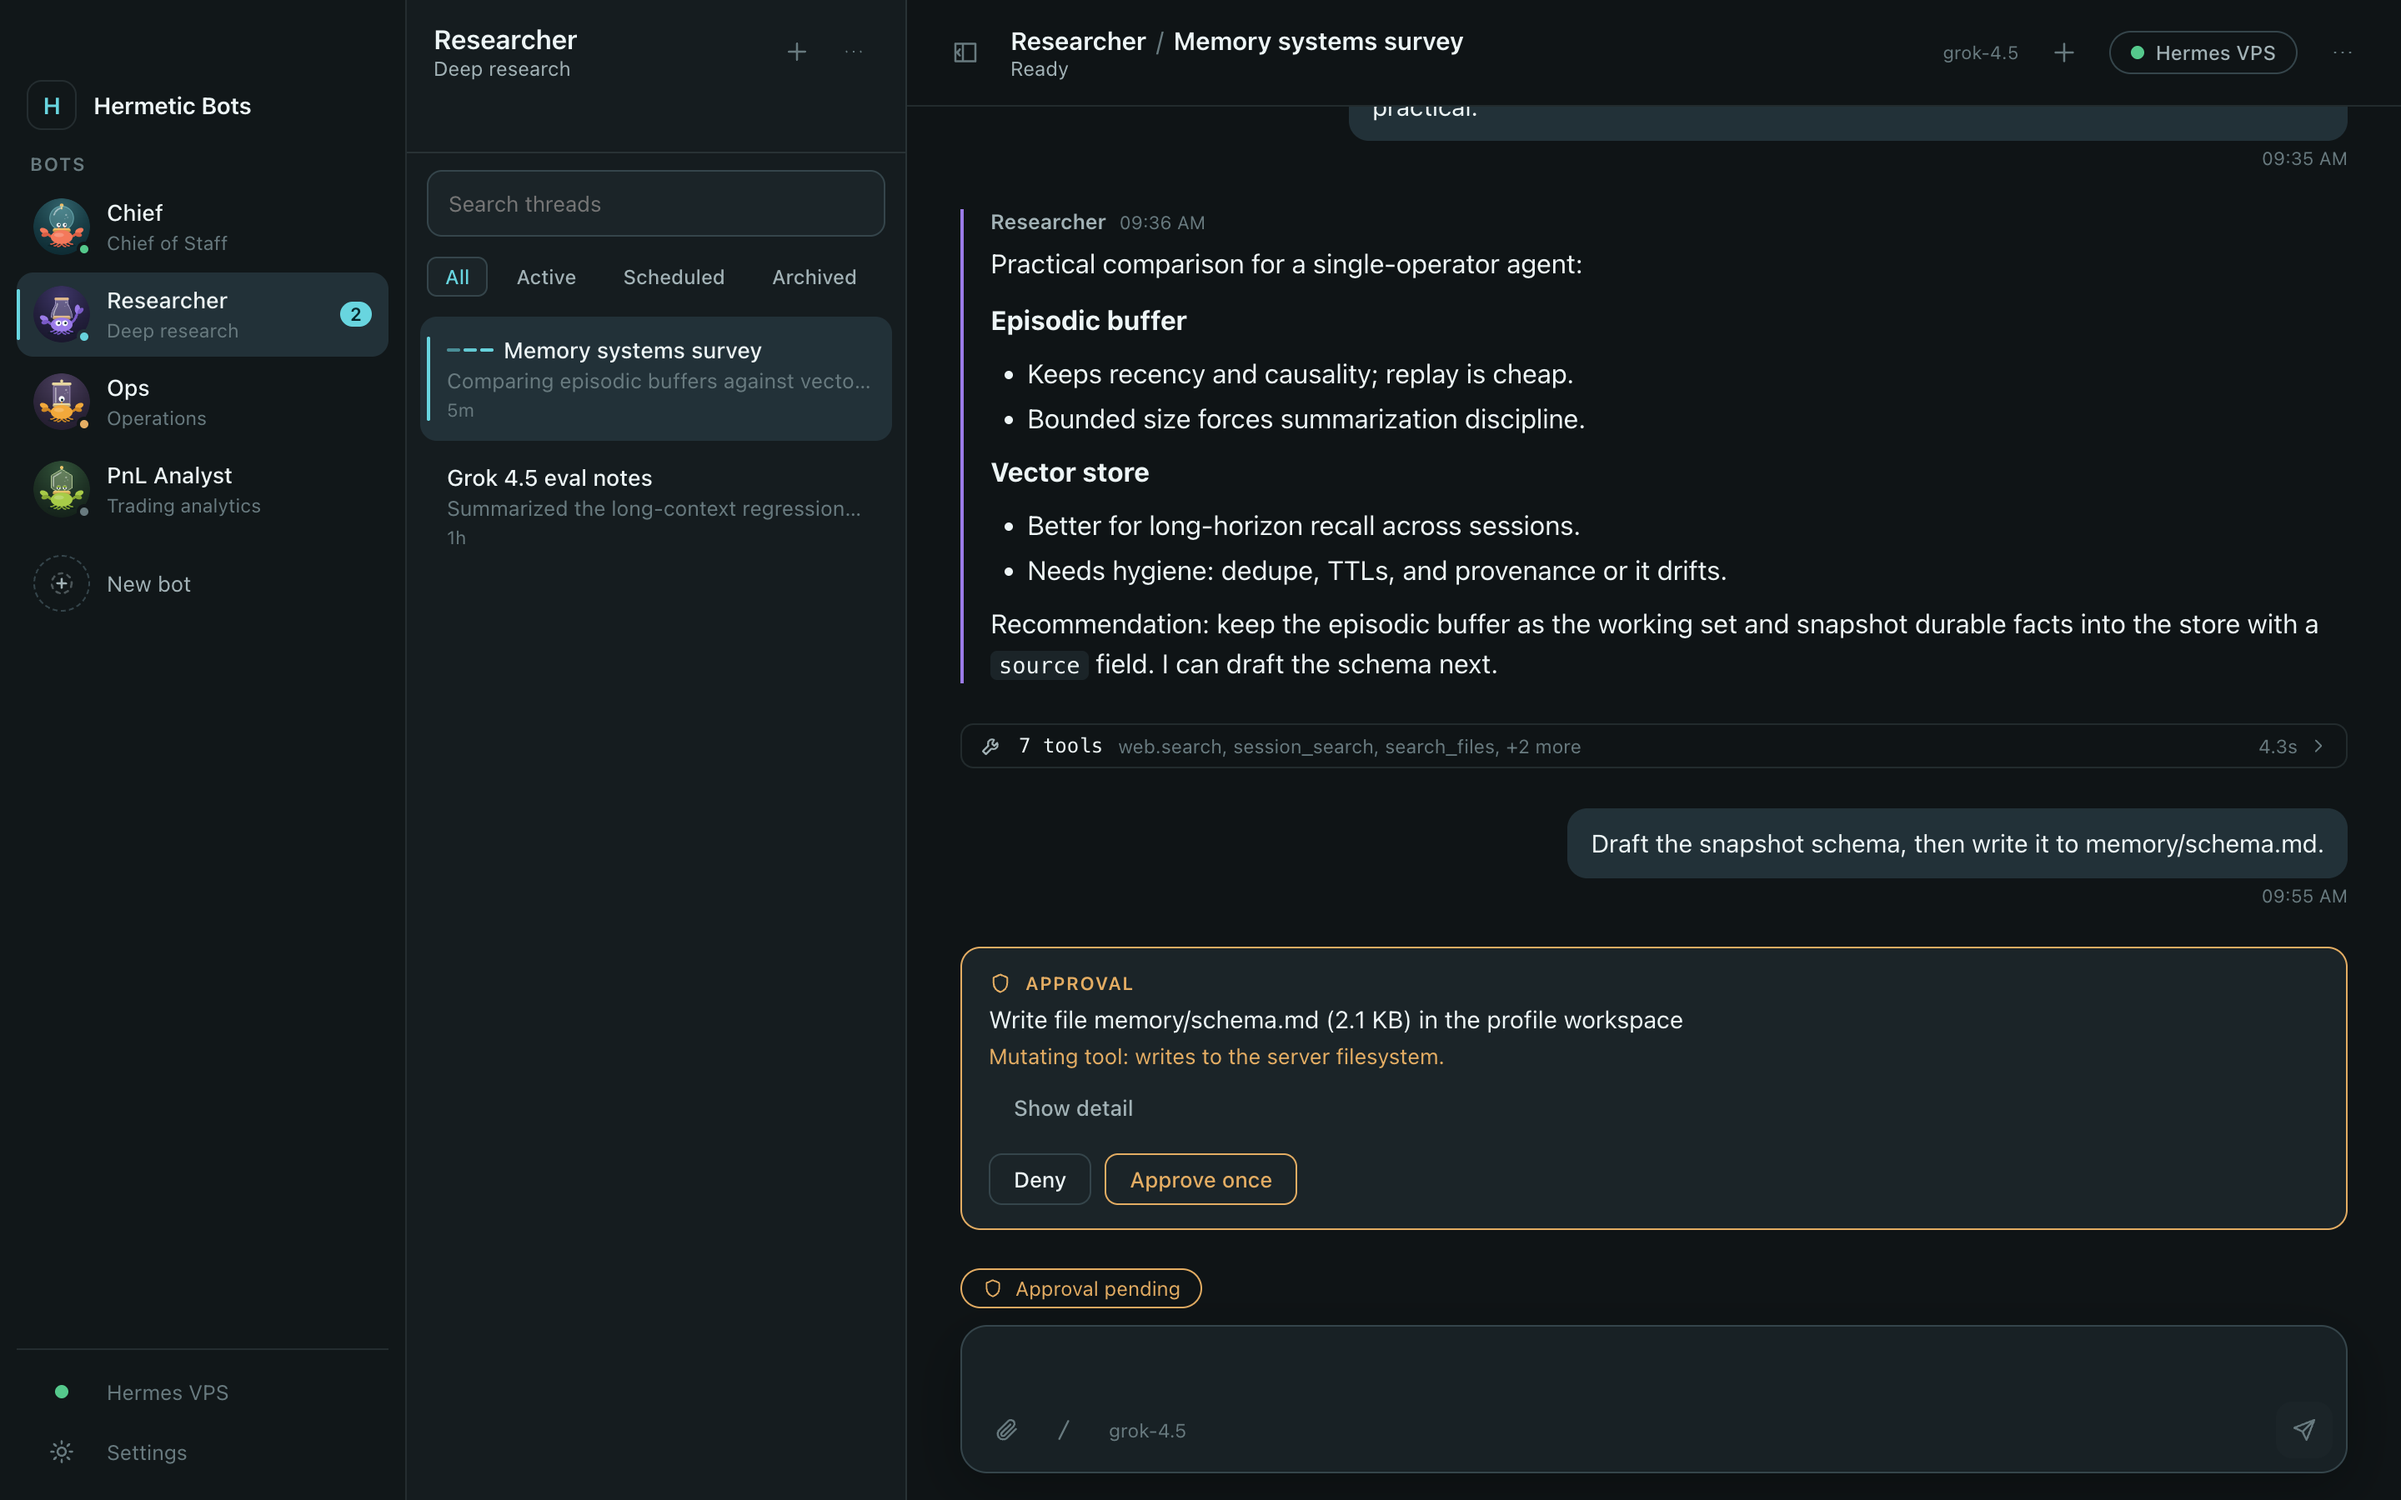
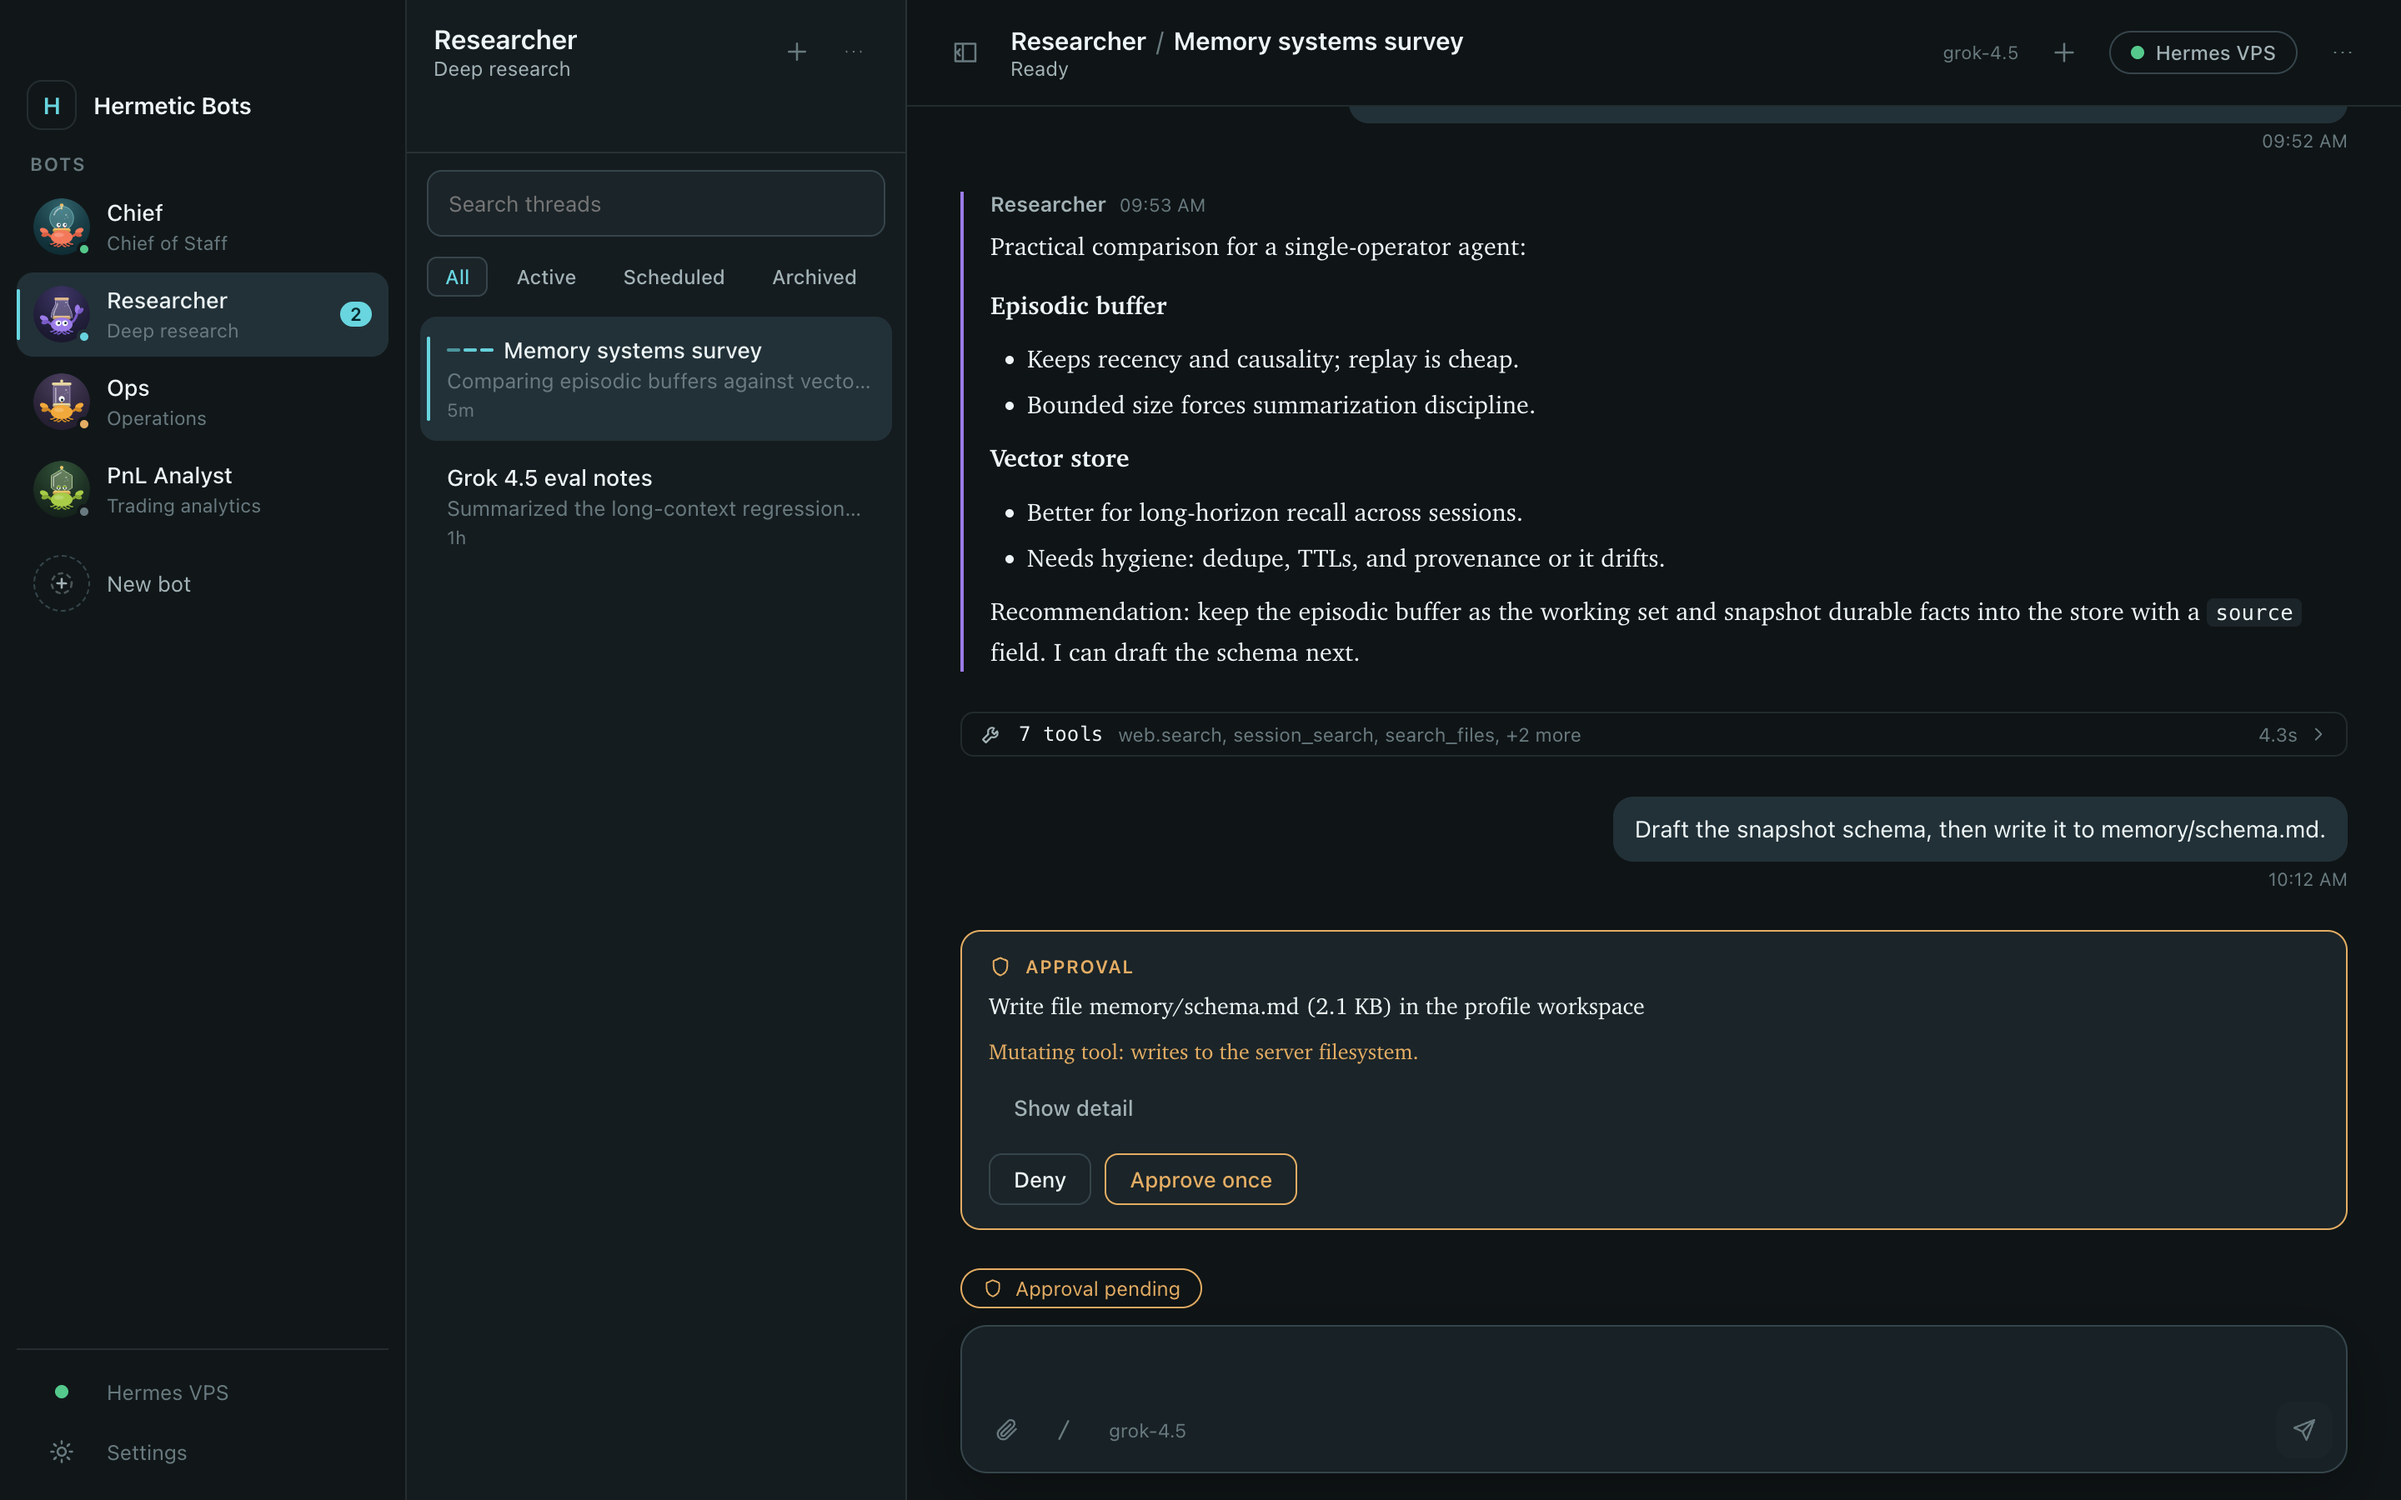
Set message prose in a serif reading face, one step smaller
Message text was the same 16px UI sans as the chrome, which made long replies
tiring and gave the transcript no typographic hierarchy. Prose now uses the
system serif at 15px with a 1.62 line-height.

macOS ships New York as ui-serif, so this needs no downloaded font — the
renderer's CSP blocks remote font hosts, and bundling a face for this would
have been the only alternative.

Code keeps the monospace face so it stays distinct inside serif prose, and
user turns keep the UI sans so the two speakers read differently at a glance.
Approval and clarification copy is prose too, so it follows.

diff --git a/src/renderer/styles/app.css b/src/renderer/styles/app.css
@@ -689,19 +689,21 @@ button:focus-visible,
 }
 
 .turn-body {
-  font-size: 16px;
-  line-height: 1.5;
+  font-family: var(--font-prose);
+  font-size: 15px;
+  line-height: 1.62;
+  letter-spacing: 0.004em;
   overflow-wrap: break-word;
 }
 
 .turn-body p + p {
-  margin-top: 10px;
+  margin-top: 11px;
 }
 
 .turn-body h1, .turn-body h2, .turn-body h3 {
-  font-size: 16px;
+  font-size: 15.5px;
   font-weight: 600;
-  margin: 14px 0 6px;
+  margin: 15px 0 6px;
 }
 
 .turn-body ul, .turn-body ol {
@@ -721,7 +723,7 @@ button:focus-visible,
 
 .turn-body code {
   font-family: var(--font-mono);
-  font-size: 13.5px;
+  font-size: 12.8px;
   background: var(--surface-elevated);
   border-radius: 4px;
   padding: 1px 5px;
@@ -792,9 +794,9 @@ button:focus-visible,
   max-width: 72%;
   background: var(--surface-selected);
   border-radius: var(--r-card);
-  padding: 10px 14px;
-  font-size: 15px;
-  line-height: 1.45;
+  padding: 9px 13px;
+  font-size: 14px;
+  line-height: 1.5;
   white-space: pre-wrap;
   overflow-wrap: break-word;
 }
@@ -965,7 +967,9 @@ button:focus-visible,
 }
 
 .request-panel .rp-summary {
-  font-size: 14.5px;
+  font-family: var(--font-prose);
+  font-size: 14px;
+  line-height: 1.55;
   margin-top: 6px;
   user-select: text;
 }

diff --git a/src/renderer/styles/tokens.css b/src/renderer/styles/tokens.css
@@ -21,6 +21,9 @@
 
   --font-ui: -apple-system, BlinkMacSystemFont, 'SF Pro Text', 'Helvetica Neue', sans-serif;
   --font-mono: ui-monospace, 'SF Mono', SFMono-Regular, Menlo, monospace;
+  /* Reading face for message prose. macOS ships New York as its system serif,
+     so this needs no downloaded font — the CSP blocks remote font hosts. */
+  --font-prose: ui-serif, 'New York', Charter, Georgia, serif;
 
   --rail-w: 244px;
   --deck-w: 300px;
